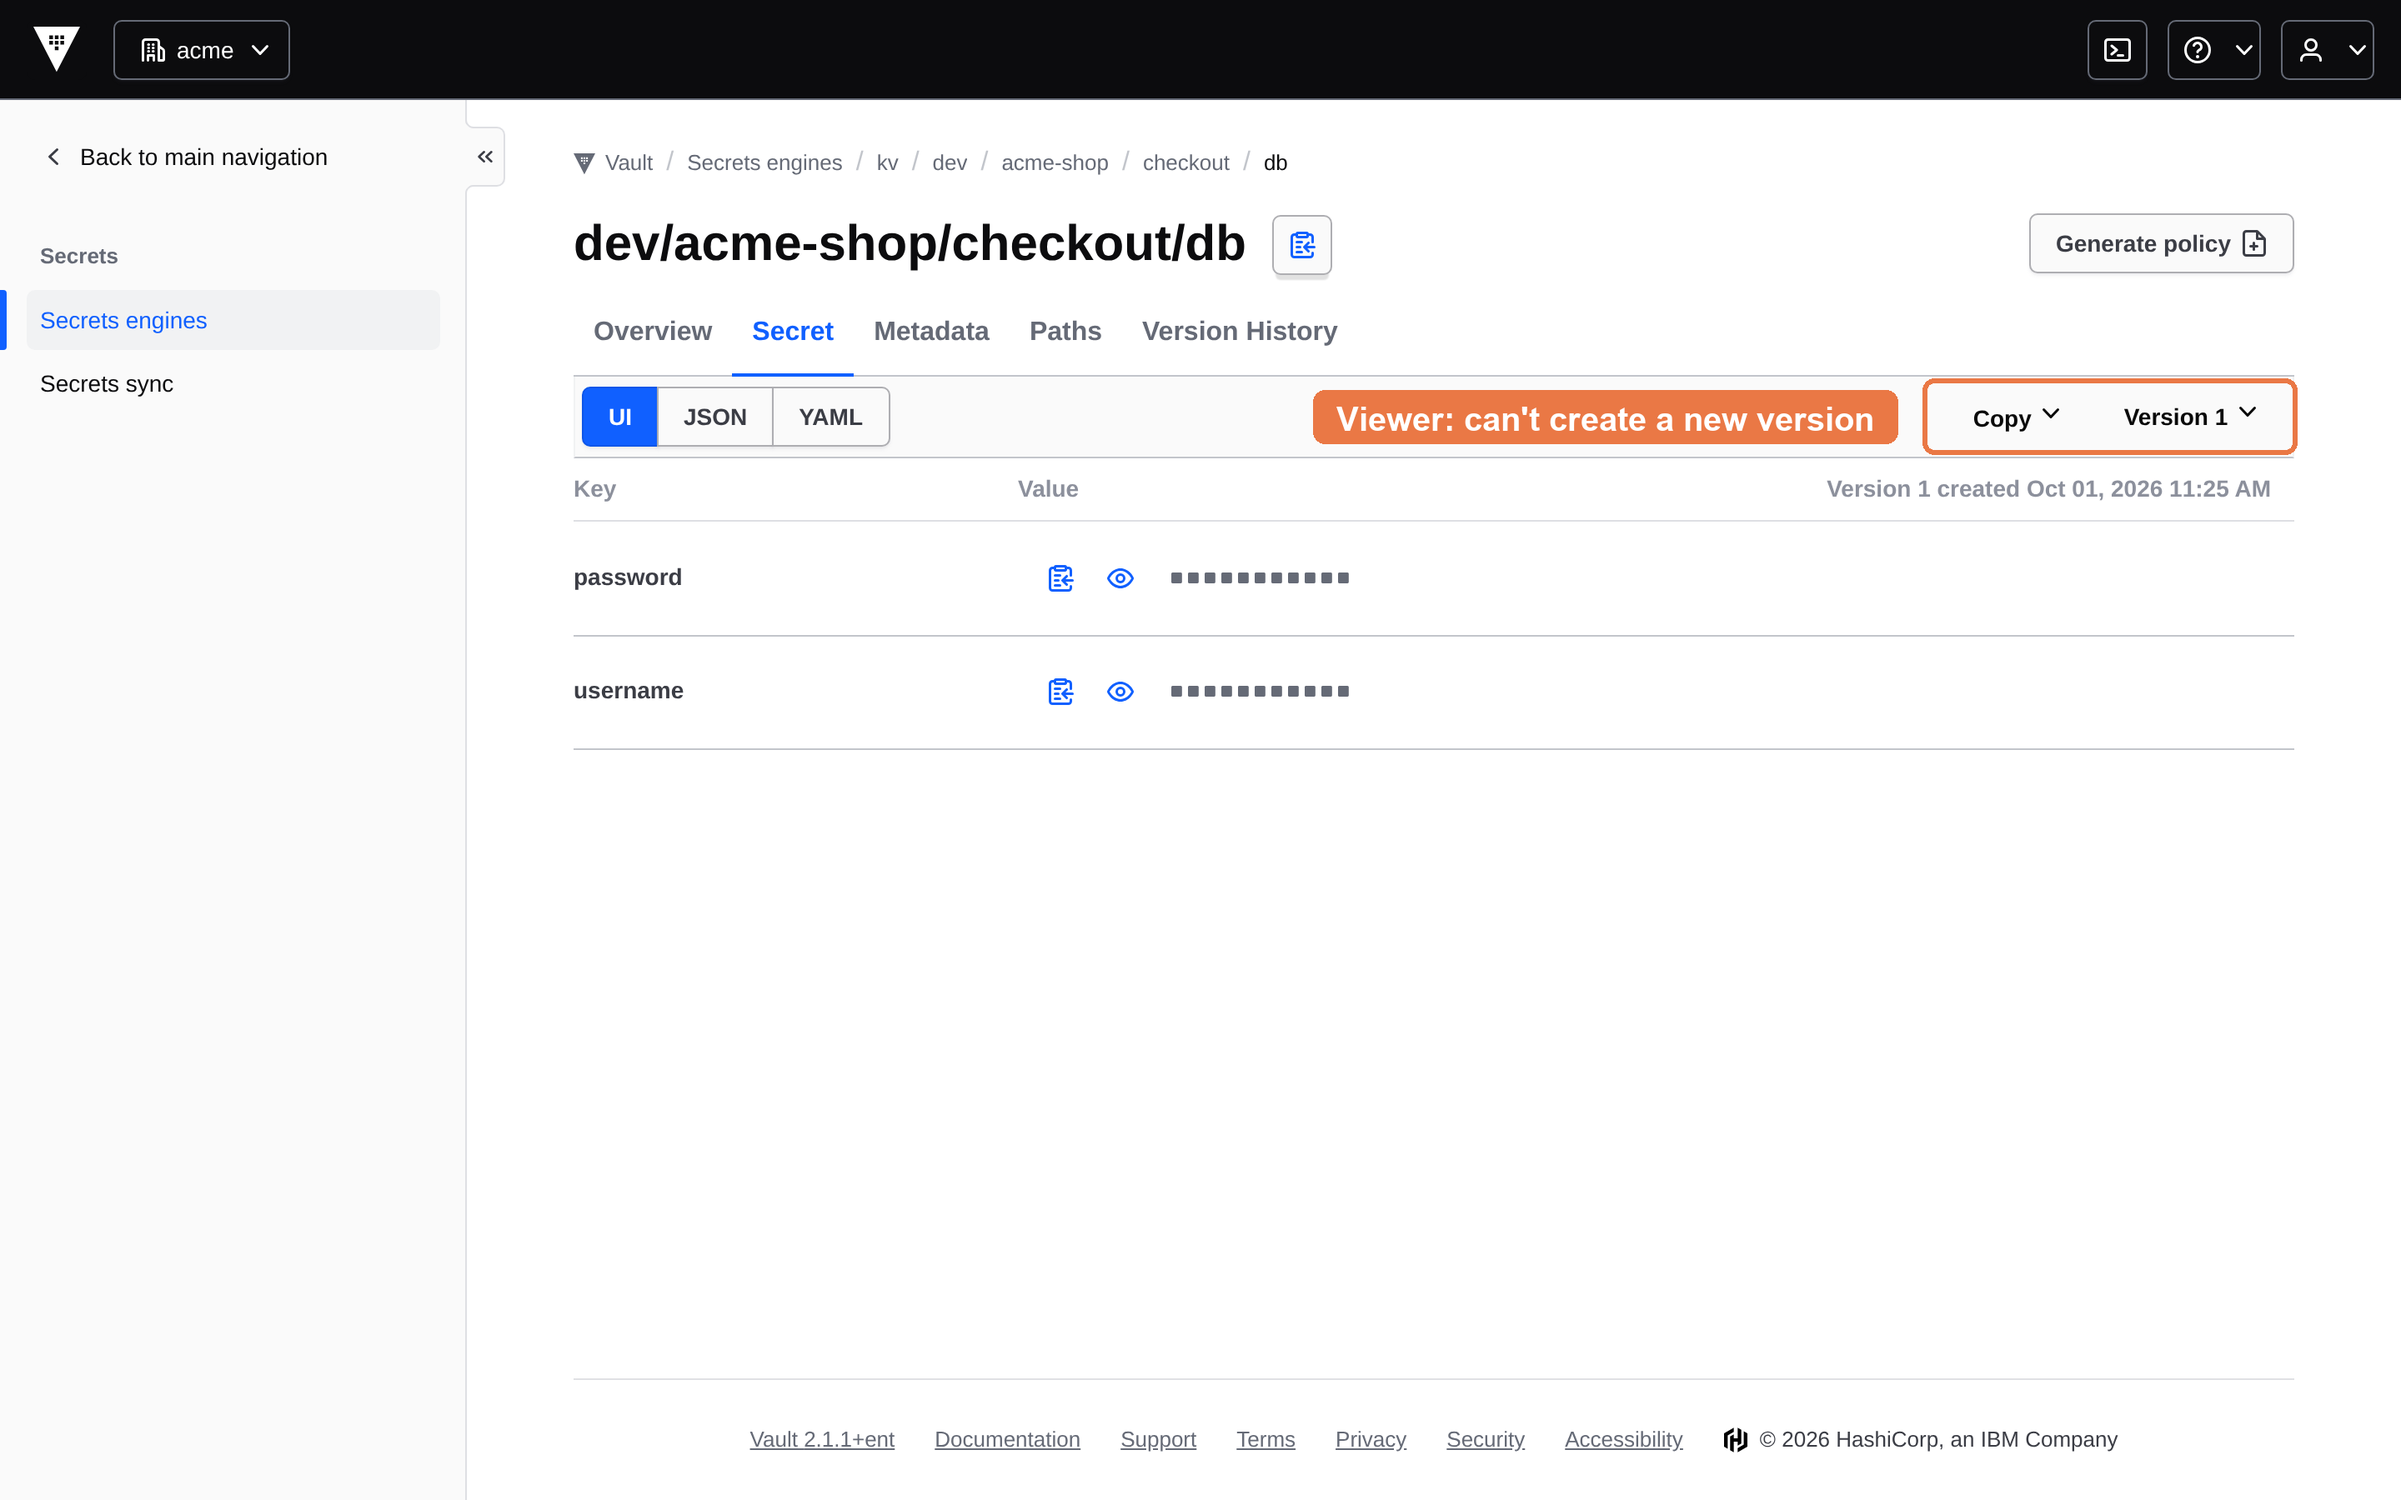
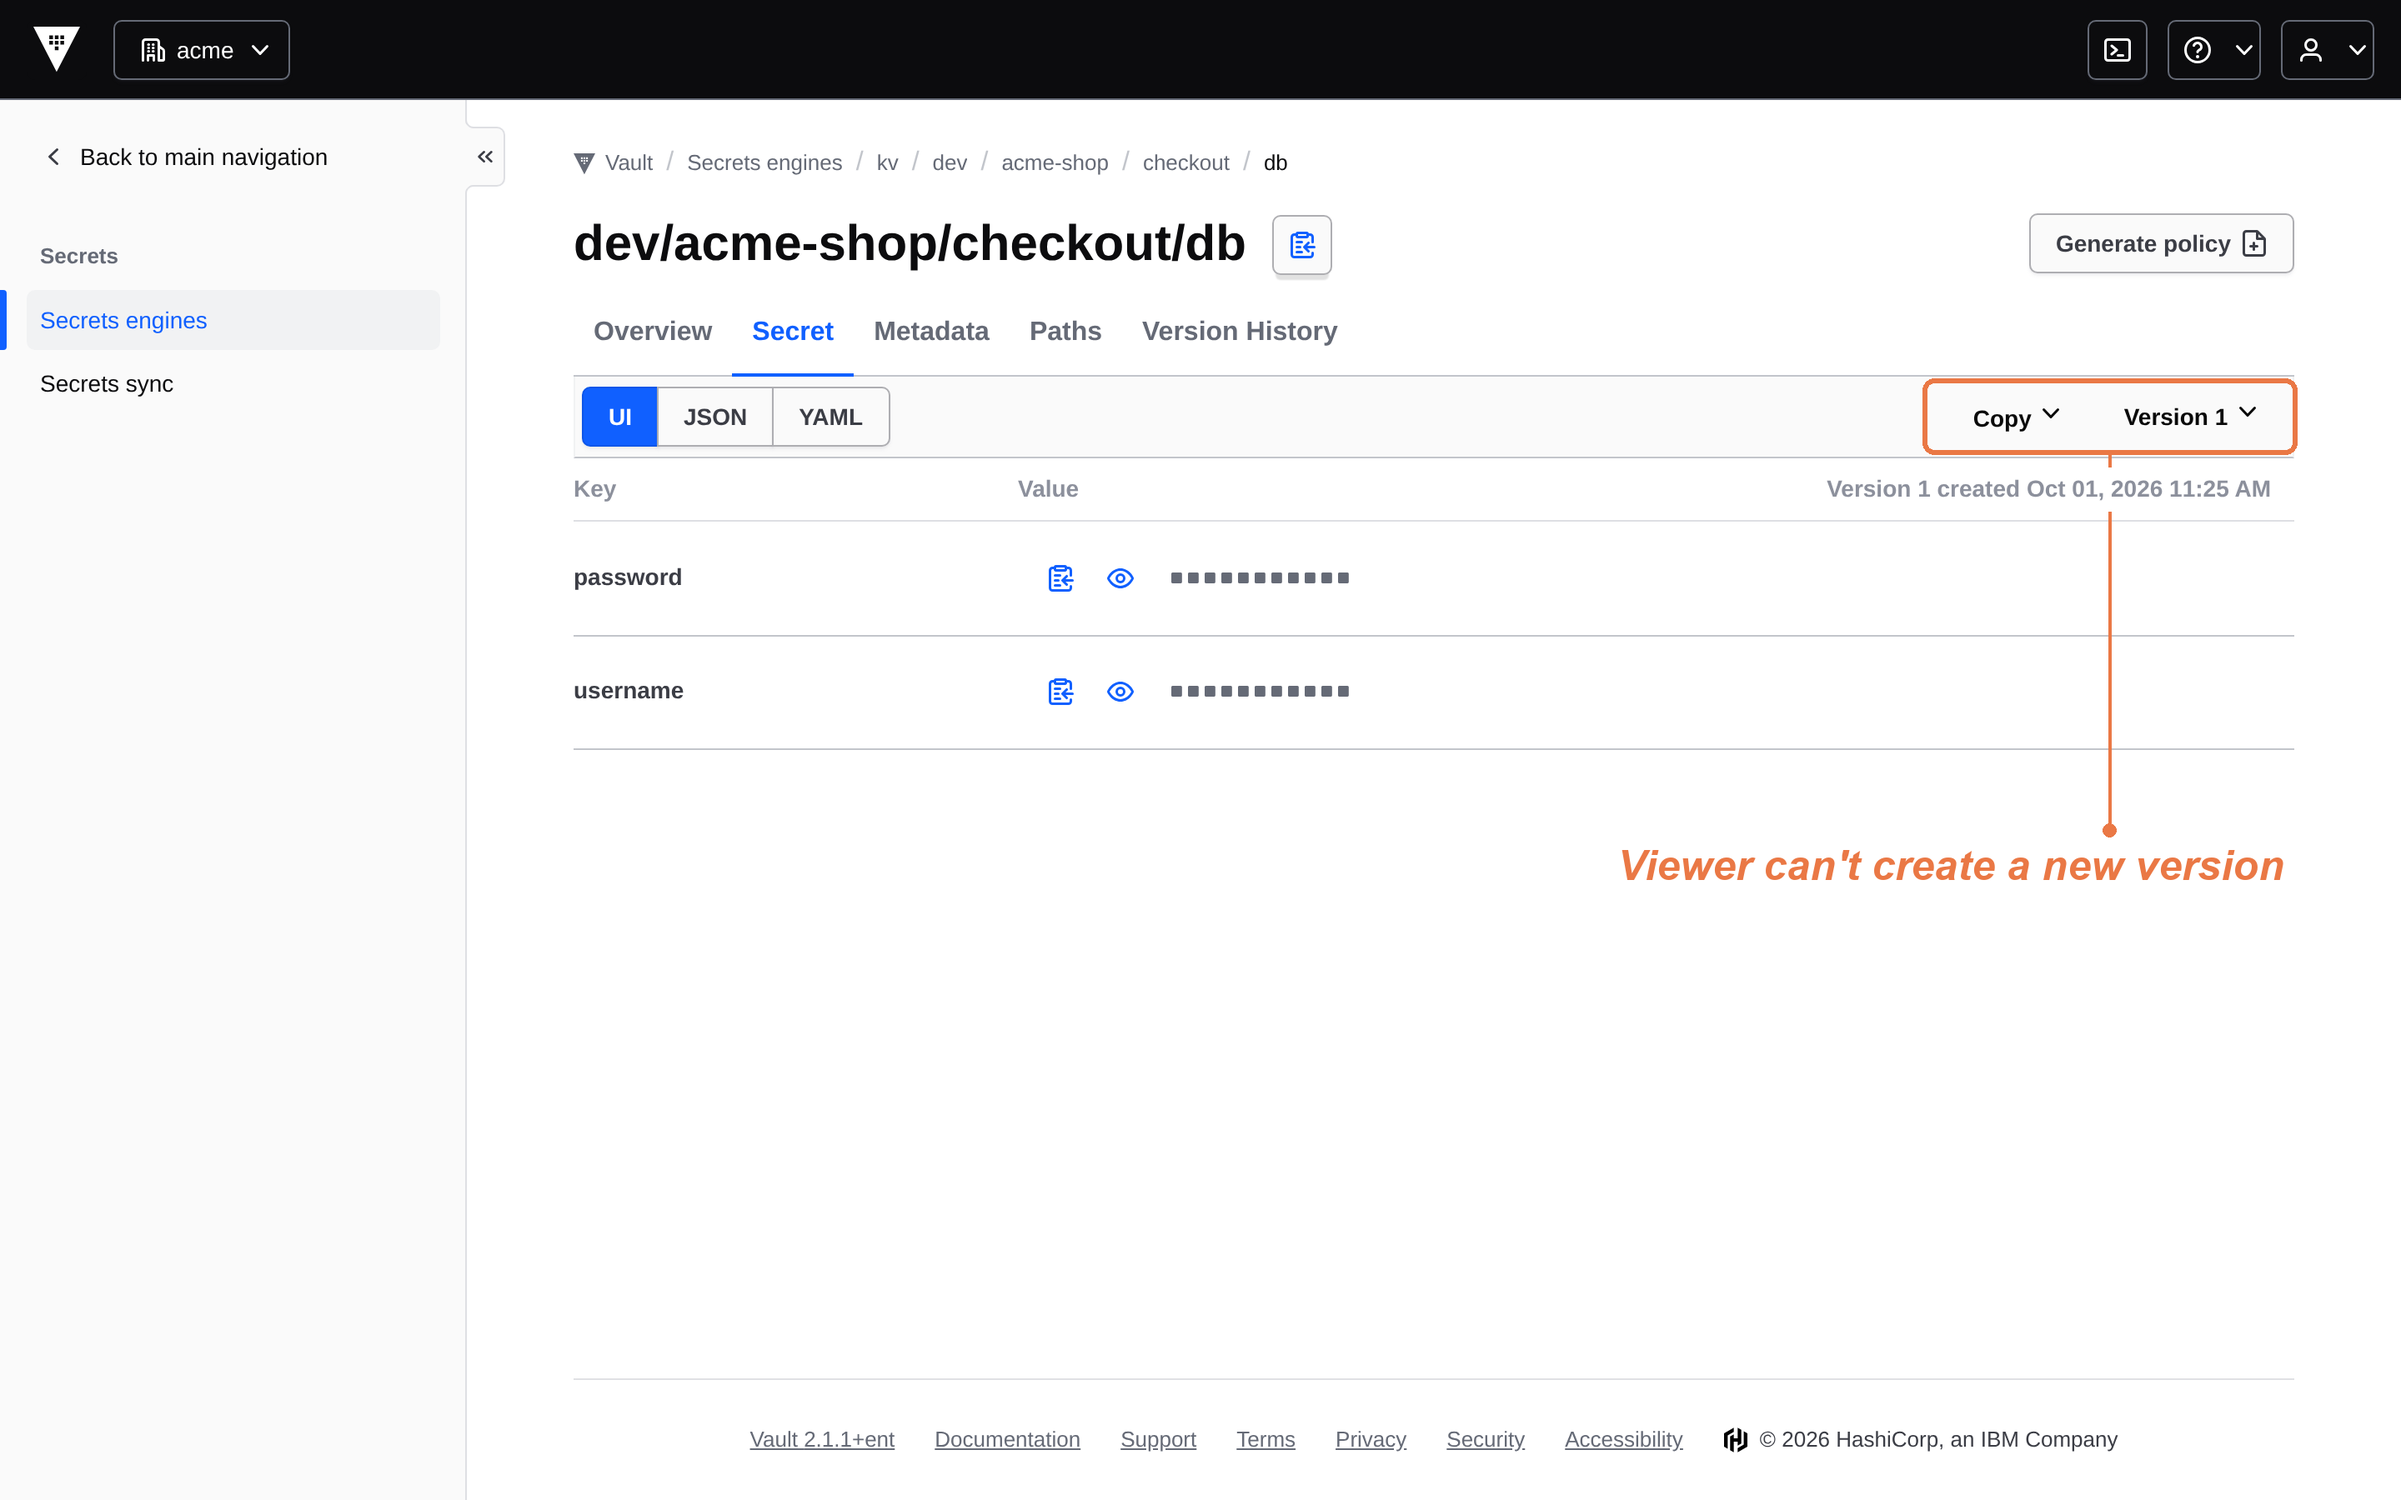
Post 2: annotate the editor and viewer views without looking like a button
The orange pills read as part of the Vault UI. The labels are now orange
italic text with no background, in empty space below the content, joined to
each highlight by a thin line that breaks around the page's own text. The
screenshot guideline describes this style for comparison labels.

Changed region(s): [[0.5312, 0.2489, 0.8125, 0.3111], [0.6562, 0.56, 0.9688, 0.5911]]

diff --git a/docs/guidelines/screenshots.md b/docs/guidelines/screenshots.md
@@ -97,10 +97,12 @@ The highlight tells the reader where to look.
 - **At most three highlights,** and no arrows or blurring.
 - **A label only for a comparison.** When two screenshots differ by one
   thing, such as an editor's and a viewer's view, each may carry one short
-  label next to its highlight, saying the difference in a few words:
-  "Editor: can create a new version". White bold text on a Stakater orange
-  pill, on the same line as the highlight, and drawn in the page like the
-  highlight. Never on a screenshot that isn't part of a comparison.
+  label saying the difference in a few words: "Editor can create a new
+  version". It must never look like part of the UI, so: Stakater orange,
+  bold italic text with no background, placed in empty space away from the
+  page's content, joined to its highlight by a thin orange line ending in a
+  dot. Where the line crosses the page's own text, it breaks around it.
+  Never on a screenshot that isn't part of a comparison.
 - **The highlighted element is in view,** scrolled to if needed, not hidden
   behind a menu.
 
